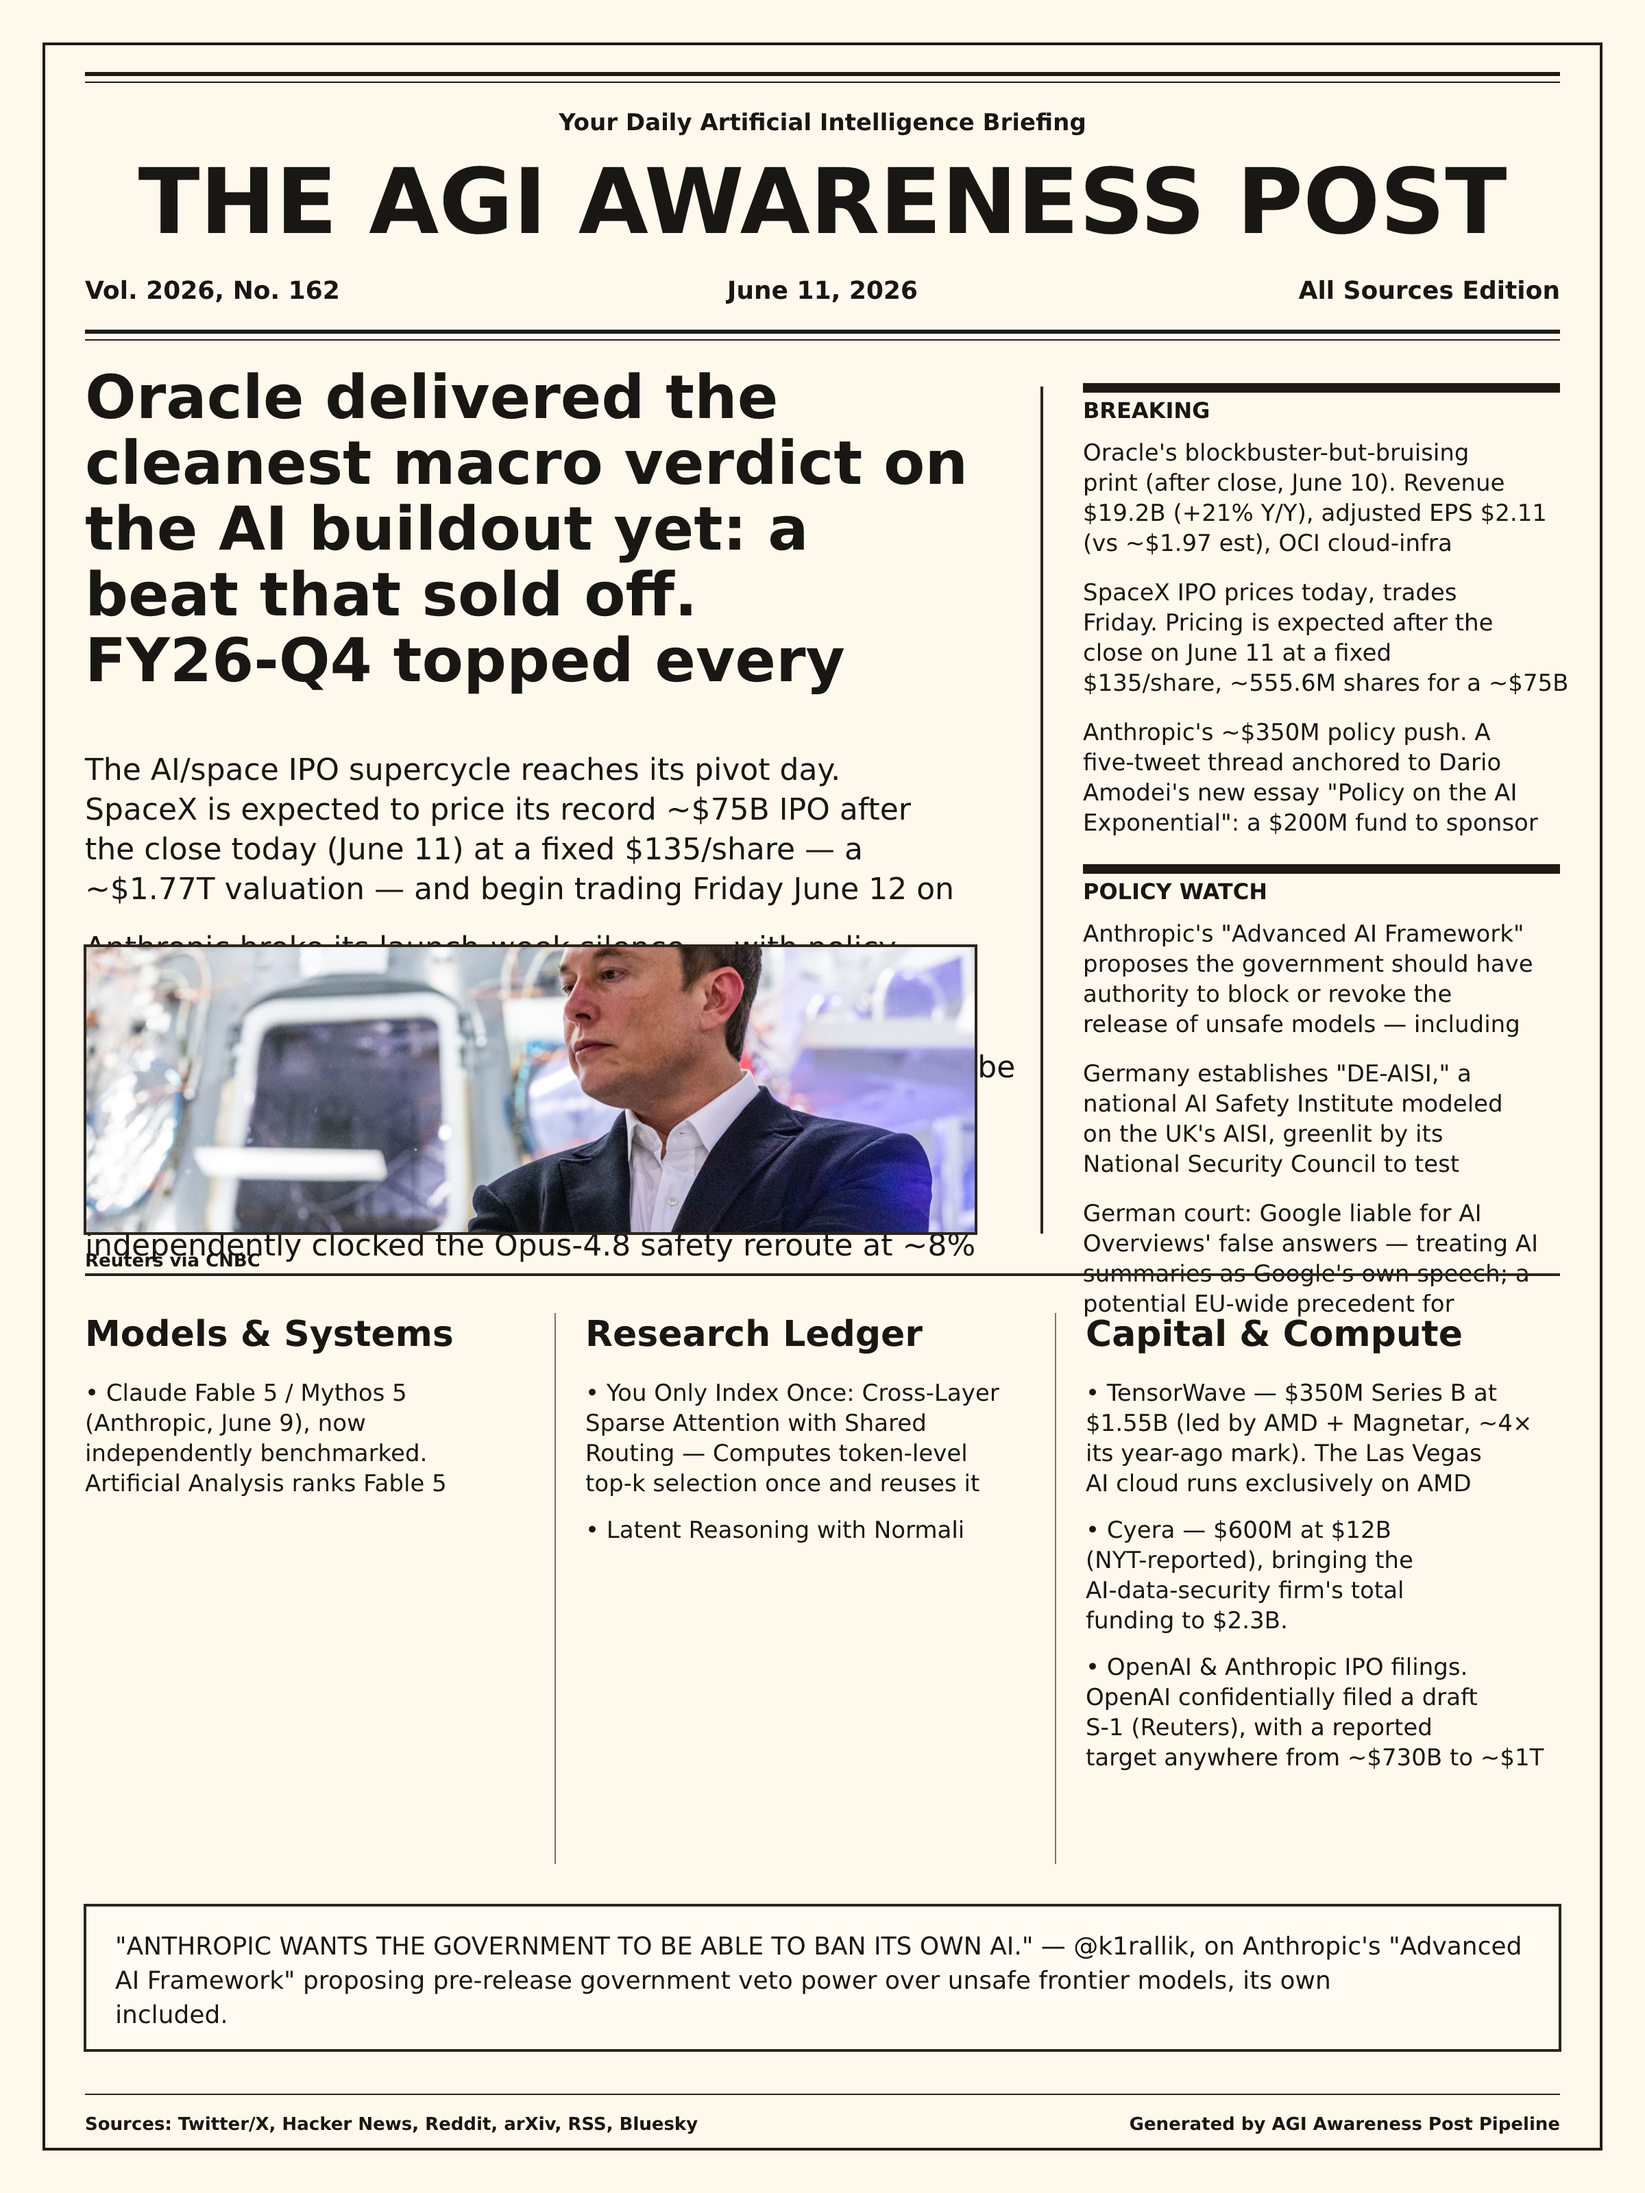
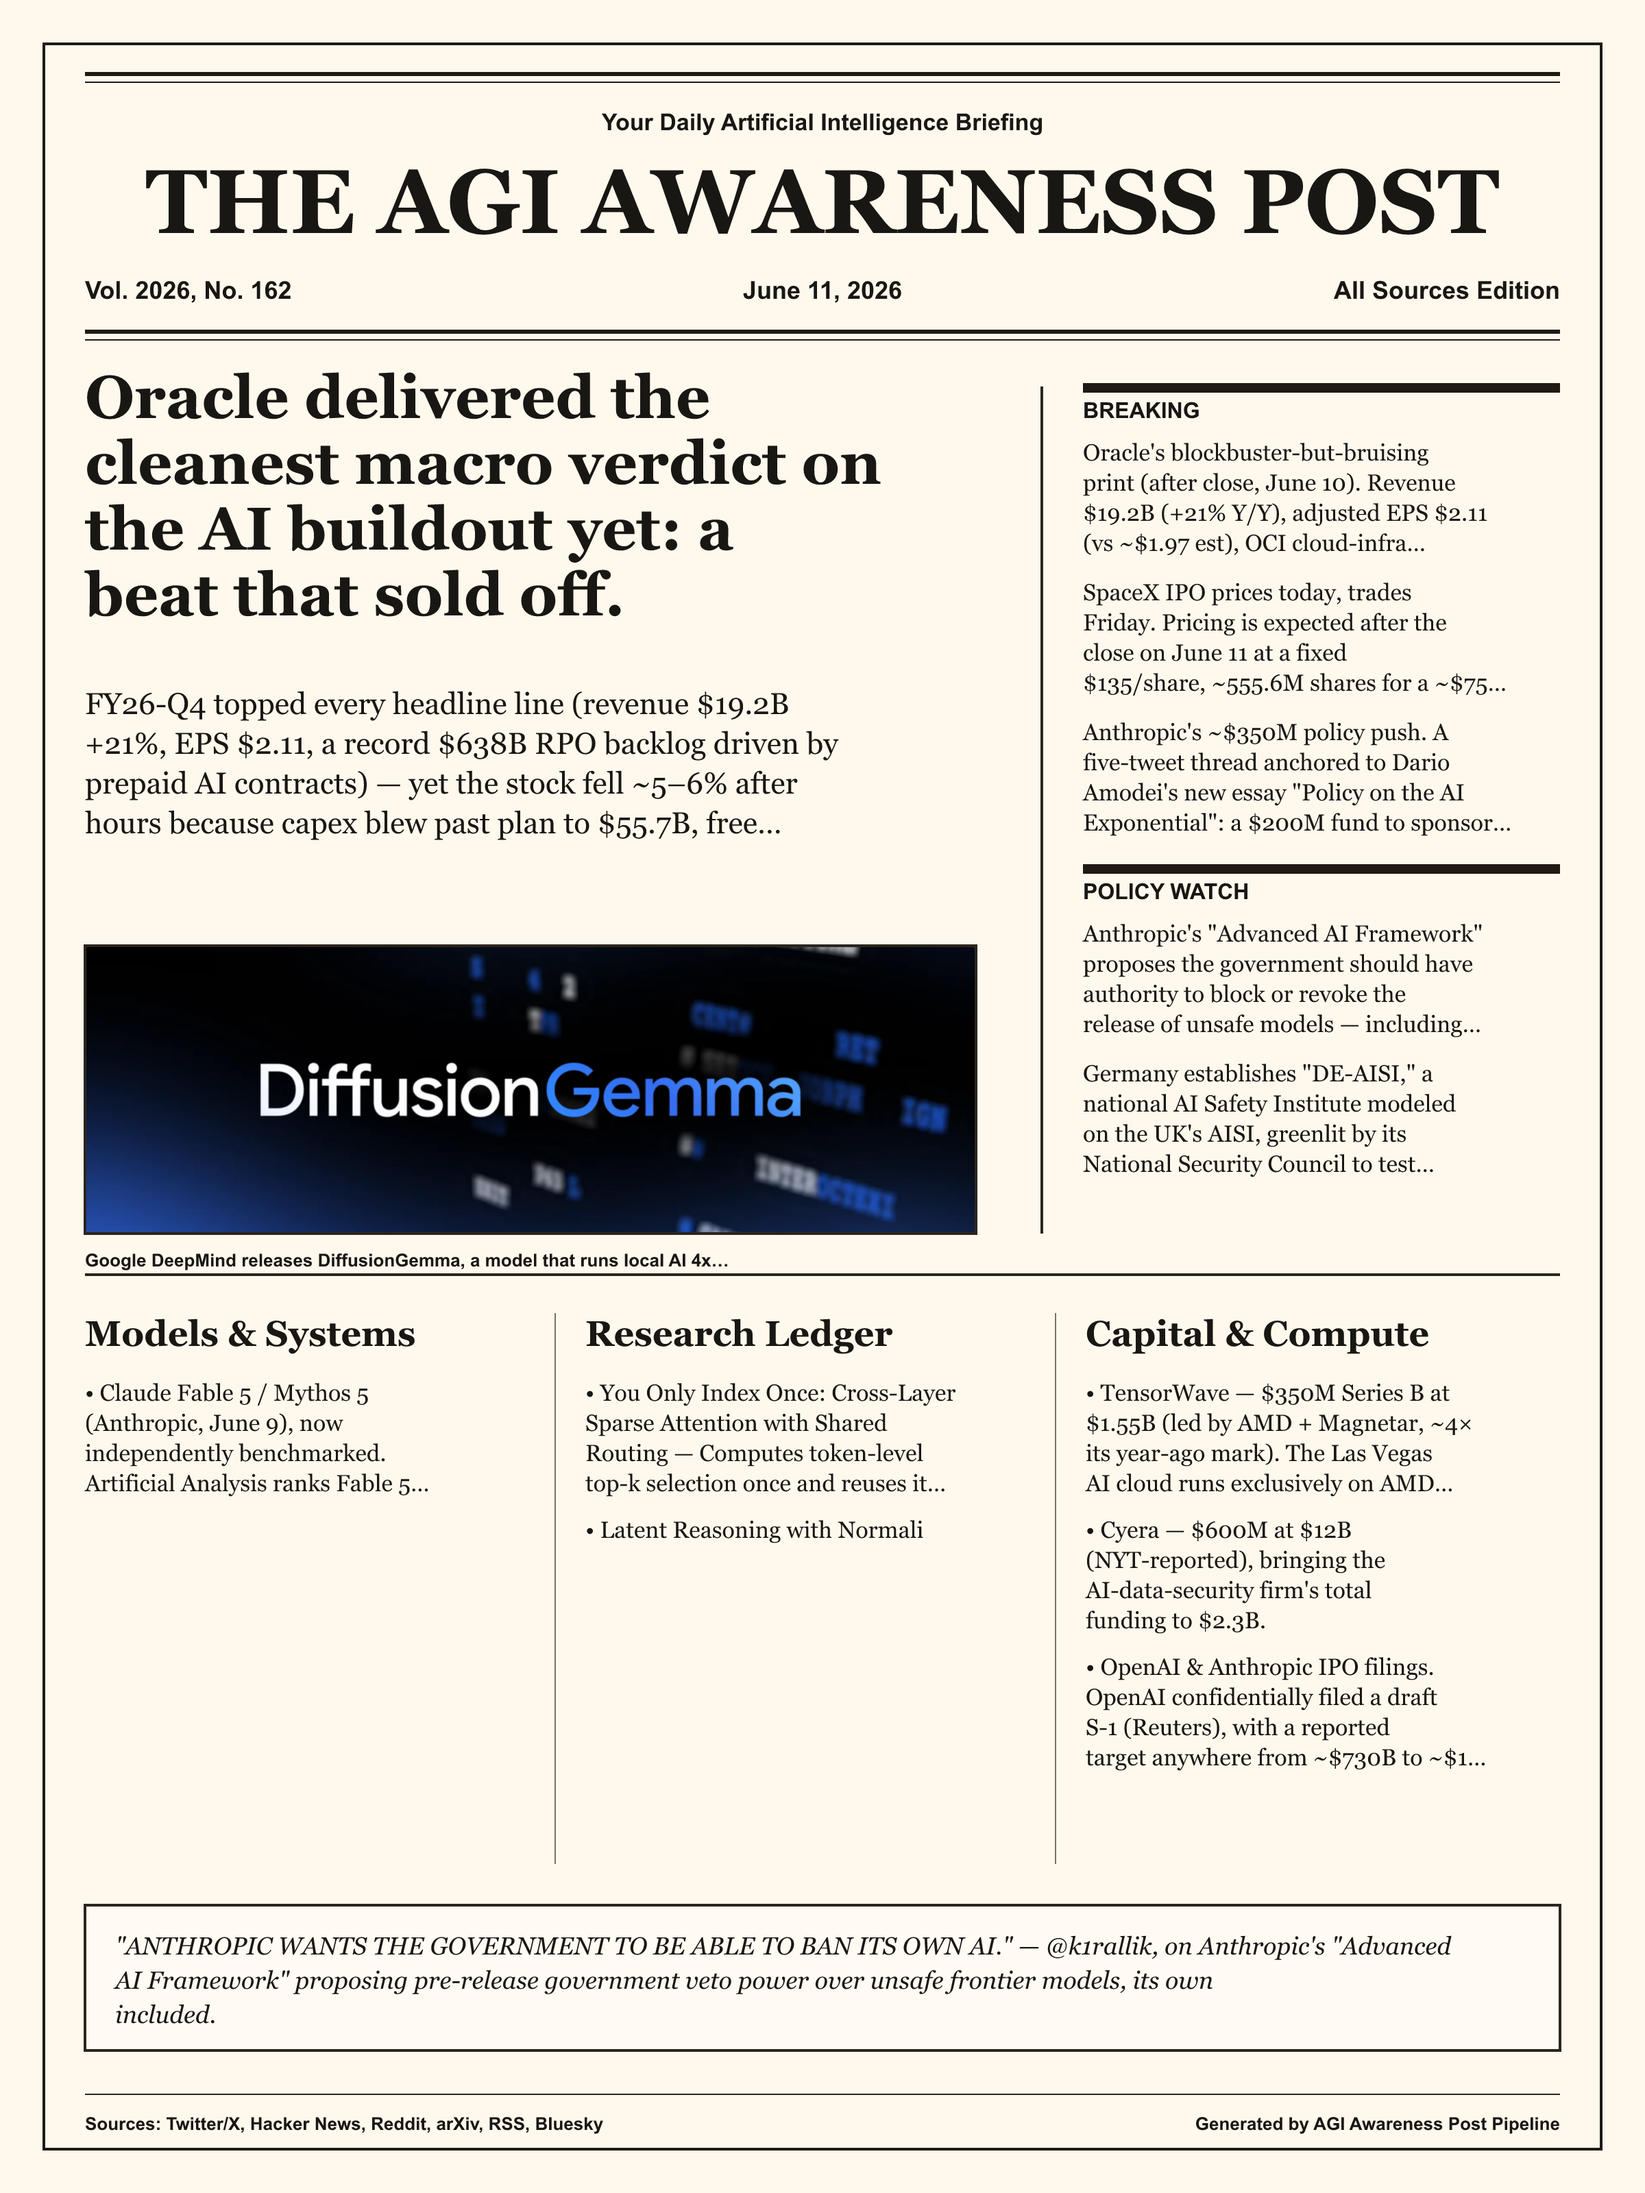
Front page 2026-06-11

diff --git a/research/front-page/2026-06-11-front-page.html b/research/front-page/2026-06-11-front-page.html
@@ -4,7 +4,7 @@
 <section class="ara-paper-lead" id="lead-top-story"><div class="ara-paper-label">Top Story</div><button class="ara-paper-toggle" type="button" aria-expanded="true" aria-controls="lead-top-story-body"><span>Oracle delivered the cleanest macro verdict on the AI buildout yet: a beat that sold off. FY26-Q4 topped every headline line (revenue $19.2B +21%, EPS $2.11, a record $638B RPO backlog driven by prepaid AI contracts) — yet the stock fell ~5–6% after hours because capex blew past plan to $55.7B, free cash flow ran −$23.7B for the year, and Oracle said it will raise another ~$40B in FY27. Demand is real; the financing is what spooked the tape.</span><span class="ara-paper-toggle-icon" aria-hidden="true">⌄</span></button><div class="ara-paper-collapsible" id="lead-top-story-body"><p>The AI/space IPO supercycle reaches its pivot day. SpaceX is expected to price its record ~$75B IPO after the close today (June 11) at a fixed $135/share — a ~$1.77T valuation — and begin trading Friday June 12 on Nasdaq as SPCX. It lands amid the first institutional pushback (North Carolina's pension publicly passed on the valuation) but a reportedly ~4× oversubscribed order book.</p>
 <p>Anthropic broke its launch-week silence — with policy, not pricing. It posted a ~$350M package (a $200M economic-policy fund, a $150M national fellowship) plus an "Advanced AI Framework" arguing governments should be able to block or revoke unsafe model releases — including Anthropic's own. It still has not addressed the June 22 Fable free-window cliff its users keep asking about.</p>
 <p>Independent benchmarks settle the Fable 5 verdict — and it's a split, not a sweep. Artificial Analysis put Fable 5 #1 overall (64.9, ~5 pts clear of GPT-5.5) but independently clocked the Opus-4.8 safety reroute at ~8% of tasks (vs Anthropic's stated "&lt;5% of sessions") and a single Humanity's-Last-Exam run at ~$2.2k. The day-2 consensus: exceptional capability, real "fallback tax," not an everyday driver.</p></div></section>
-<figure class="ara-figure ara-figure--wide"><img src="https://image.cnbcfm.com/api/v1/image/108315896-1780491649482-gettyimages-1175168392-AFP_1LB3WB.jpeg?v=1781036537&amp;w=1920&amp;h=1080" alt="Reuters via CNBC" loading="lazy" decoding="async" referrerpolicy="no-referrer"><figcaption class="ara-caption"><span class="ara-caption-text">SpaceX IPO prices today, trades Friday. Pricing is expected after the close on June 11 at a fixed $135/share, ~555.6M shares for a ~$75B raise at a ~$1.77T valuation — the largest IPO in history, slotting SpaceX in as roughly the 7th-most-valuable US public company. First trade targeted for June 12 under SPCX. (Reuters via CNBC, heygotrade)</span><span class="ara-credit">Source: <a href="https://www.cnbc.com/2026/06/03/spacex-ipo-stock-price-roadshow-musk.html">Source</a></span></figcaption></figure>
+<figure class="ara-figure ara-figure--wide"><img src="https://cdn.arstechnica.net/wp-content/uploads/2026/06/HeroVisual.width-2200.format-webp-1152x648.png" alt="Google DeepMind releases DiffusionGemma, a model that runs local AI 4x faster" loading="lazy" decoding="async" referrerpolicy="no-referrer"><figcaption class="ara-caption"><span class="ara-caption-text">Google DeepMind releases DiffusionGemma, a model that runs local AI 4x faster</span><span class="ara-credit">Source: <a href="https://arstechnica.com/google/2026/06/googles-latest-diffusiongemma-open-ai-model-comes-with-a-4x-speed-boost/">Source</a></span></figcaption></figure>
 <section class="ara-paper-briefs" id="briefs-breaking-policy" data-columns="2"><h3 class="ara-paper-section-title">Breaking &amp; Policy</h3><div class="ara-paper-brief-grid"><details class="ara-paper-brief"><summary><span class="ara-paper-brief-rank">01</span><span class="ara-paper-brief-tag">Breaking</span><span class="ara-paper-brief-headline">Oracle's blockbuster-but-bruising print (after close, June 10). Revenue $19.2B (+21% Y/Y), adjusted EPS $2.11 (vs ~$1.97 est), OCI cloud-infra revenue +93% to ~$5.8B, and RPO up $85B in the quarter to a record $638B — most of it prepaid large-scale AI contracts. The offset: capex $55.7B (vs a $50B plan), FY26 free cash flow −$23.7B, and a planned ~$40B of new FY27 debt/equity. Shares fell ~5–6% after hours. It's the first hard, audited data point in the "are AI-infra returns real" debate — and the answer is ambivalent: backlog says yes, cash flow says "show me."</span></summary></details><details class="ara-paper-brief"><summary><span class="ara-paper-brief-rank">02</span><span class="ara-paper-brief-tag">Breaking</span><span class="ara-paper-brief-headline">SpaceX IPO prices today, trades Friday. Pricing is expected after the close on June 11 at a fixed $135/share, ~555.6M shares for a ~$75B raise at a ~$1.77T valuation — the largest IPO in history, slotting SpaceX in as roughly the 7th-most-valuable US public company. First trade targeted for June 12 under SPCX. (Reuters via CNBC, heygotrade)</span></summary></details><details class="ara-paper-brief"><summary><span class="ara-paper-brief-rank">03</span><span class="ara-paper-brief-tag">Breaking</span><span class="ara-paper-brief-headline">Anthropic's ~$350M policy push. A five-tweet thread anchored to Dario Amodei's new essay "Policy on the AI Exponential": a $200M fund to sponsor labor-market-disruption evaluations, a $150M national fellowship, and an "Advanced AI Framework" proposing government authority to block or revoke unsafe frontier releases. Critics read it as regulatory positioning; supporters (incl. Gillian Hadfield) note it echoes a 2019 "regulatory markets" proposal.</span></summary></details><details class="ara-paper-brief"><summary><span class="ara-paper-brief-rank">04</span><span class="ara-paper-brief-tag">Policy</span><span class="ara-paper-brief-headline">Anthropic's "Advanced AI Framework" proposes the government should have authority to block or revoke the release of unsafe models — including its own — paired with a $200M economic-policy fund and a $150M fellowship. The split-screen: a $350M societal-resilience push from the same company whose Fable economics users are calling unaffordable.</span></summary></details><details class="ara-paper-brief"><summary><span class="ara-paper-brief-rank">05</span><span class="ara-paper-brief-tag">Policy</span><span class="ara-paper-brief-headline">Germany establishes "DE-AISI," a national AI Safety Institute modeled on the UK's AISI, greenlit by its National Security Council to test frontier models for security risk.</span></summary></details><details class="ara-paper-brief"><summary><span class="ara-paper-brief-rank">06</span><span class="ara-paper-brief-tag">Policy</span><span class="ara-paper-brief-headline">German court: Google liable for AI Overviews' false answers — treating AI summaries as Google's own speech; a potential EU-wide precedent for LLM-as-product liability.</span></summary></details></div></section>
 <section class="ara-paper-meter" id="meter-signal-mix"><h3 class="ara-paper-section-title">Signal Mix</h3><div class="ara-paper-meter-row ara-paper-meter-row--hot"><div class="ara-paper-meter-label"><span>Breaking news</span><strong>3 items</strong></div><div class="ara-paper-meter-track"><span class="ara-paper-meter-fill" data-pct="75"></span></div></div><div class="ara-paper-meter-row ara-paper-meter-row--watch"><div class="ara-paper-meter-label"><span>Model releases</span><strong>1 items</strong></div><div class="ara-paper-meter-track"><span class="ara-paper-meter-fill" data-pct="25"></span></div></div><div class="ara-paper-meter-row ara-paper-meter-row--research"><div class="ara-paper-meter-label"><span>Research highlights</span><strong>2 items</strong></div><div class="ara-paper-meter-track"><span class="ara-paper-meter-fill" data-pct="40"></span></div></div><div class="ara-paper-meter-row ara-paper-meter-row--market"><div class="ara-paper-meter-label"><span>Funding and compute</span><strong>4 items</strong></div><div class="ara-paper-meter-track"><span class="ara-paper-meter-fill" data-pct="100"></span></div></div></section>
 <section class="ara-paper-story-deck" id="deck-departments"><h3 class="ara-paper-section-title">Departments</h3><div class="ara-paper-story-list"><details class="ara-paper-story ara-paper-story--hot"><summary><span>Models &amp; Systems</span></summary><div class="ara-paper-story-meta">1 digest items</div><p>Claude Fable 5 / Mythos 5 (Anthropic, June 9), now independently benchmarked. Artificial Analysis ranks Fable 5 #1 overall on its Intelligence Index at 64.9, ~5 pts ahead of GPT-5.5, topping 5 of 10 underlying benchmarks (HLE 53%, AA-Omniscience 40, GDPval-AA Elo 1932, frontier agentic marks). Pricing is $10/$50 per 1M input/output tokens (~2× Opus 4.8); a single HLE run cost ~$2.2k including fallback. The asterisk: AA measured the Opus-4.8 safety reroute firing on ~8% of tasks (9% on HLE), above Anthropic's "&lt;5% of sessions" — concentrated in science/bio. Free for Pro/Max/Team/Enterprise until June 22, metered thereafter. Now live on Ama</p></details><details class="ara-paper-story ara-paper-story--research"><summary><span>Research Ledger</span></summary><div class="ara-paper-story-meta">2 digest items</div><p>You Only Index Once: Cross-Layer Sparse Attention with Shared Routing — Computes token-level top-k selection once and reuses it across every decoder layer instead of re-routing per layer; reports up to 7.6× decode speedup / 17.1× throughput at 128K context. A concrete lever for long-context serving cost. Latent Reasoning with Normali</p></details><details class="ara-paper-story ara-paper-story--market"><summary><span>Capital &amp; Compute</span></summary><div class="ara-paper-story-meta">4 digest items</div><p>TensorWave — $350M Series B at $1.55B (led by AMD + Magnetar, ~4× its year-ago mark). The Las Vegas AI cloud runs exclusively on AMD silicon, refusing Nvidia; says it has signed 500MW and targets 2GW next year — the clearest funded anti-Nvidia infrastructure bet of the year (WSJ). Cyera — $600M at $12B (NYT-reported), bringing the AI-data-security firm's total funding to $2.3B. OpenAI &amp; Anthropic IPO filings. OpenAI confidentially filed a draft S-1 (Reuters), with a reported target anywhere from ~$730B to ~$1T and ~900M WAU / ~$2B monthly revenue; Anthropic filed at a ~$965B mark. Goldman Sachs and Morgan Stanley are reported to be competing for the lead role on both. (Dataconomy)</p></details></div></section>

diff --git a/research/front-page/2026-06-11-front-page.ara.md b/research/front-page/2026-06-11-front-page.ara.md
@@ -27,7 +27,7 @@ Anthropic broke its launch-week silence — with policy, not pricing. It posted 
 Independent benchmarks settle the Fable 5 verdict — and it's a split, not a sweep. Artificial Analysis put Fable 5 #1 overall (64.9, ~5 pts clear of GPT-5.5) but independently clocked the Opus-4.8 safety reroute at ~8% of tasks (vs Anthropic's stated "<5% of sessions") and a single Humanity's-Last-Exam run at ~$2.2k. The day-2 consensus: exceptional capability, real "fallback tax," not an everyday driver.
 :::
 
-:::figure(src="https://image.cnbcfm.com/api/v1/image/108315896-1780491649482-gettyimages-1175168392-AFP_1LB3WB.jpeg?v=1781036537&w=1920&h=1080", alt="Reuters via CNBC", caption="SpaceX IPO prices today, trades Friday. Pricing is expected after the close on June 11 at a fixed $135/share, ~555.6M shares for a ~$75B raise at a ~$1.77T valuation — the largest IPO in history, slotting SpaceX in as roughly the 7th-most-valuable US public company. First trade targeted for June 12 under SPCX. (Reuters via CNBC, heygotrade)", source-url="https://www.cnbc.com/2026/06/03/spacex-ipo-stock-price-roadshow-musk.html", variant=wide)
+:::figure(src="https://cdn.arstechnica.net/wp-content/uploads/2026/06/HeroVisual.width-2200.format-webp-1152x648.png", alt="Google DeepMind releases DiffusionGemma, a model that runs local AI 4x faster", caption="Google DeepMind releases DiffusionGemma, a model that runs local AI 4x faster", source-url="https://arstechnica.com/google/2026/06/googles-latest-diffusiongemma-open-ai-model-comes-with-a-4x-speed-boost/", variant=wide)
 :::
 
 :::briefs(id="briefs-breaking-policy", title="Breaking & Policy", columns=2)
